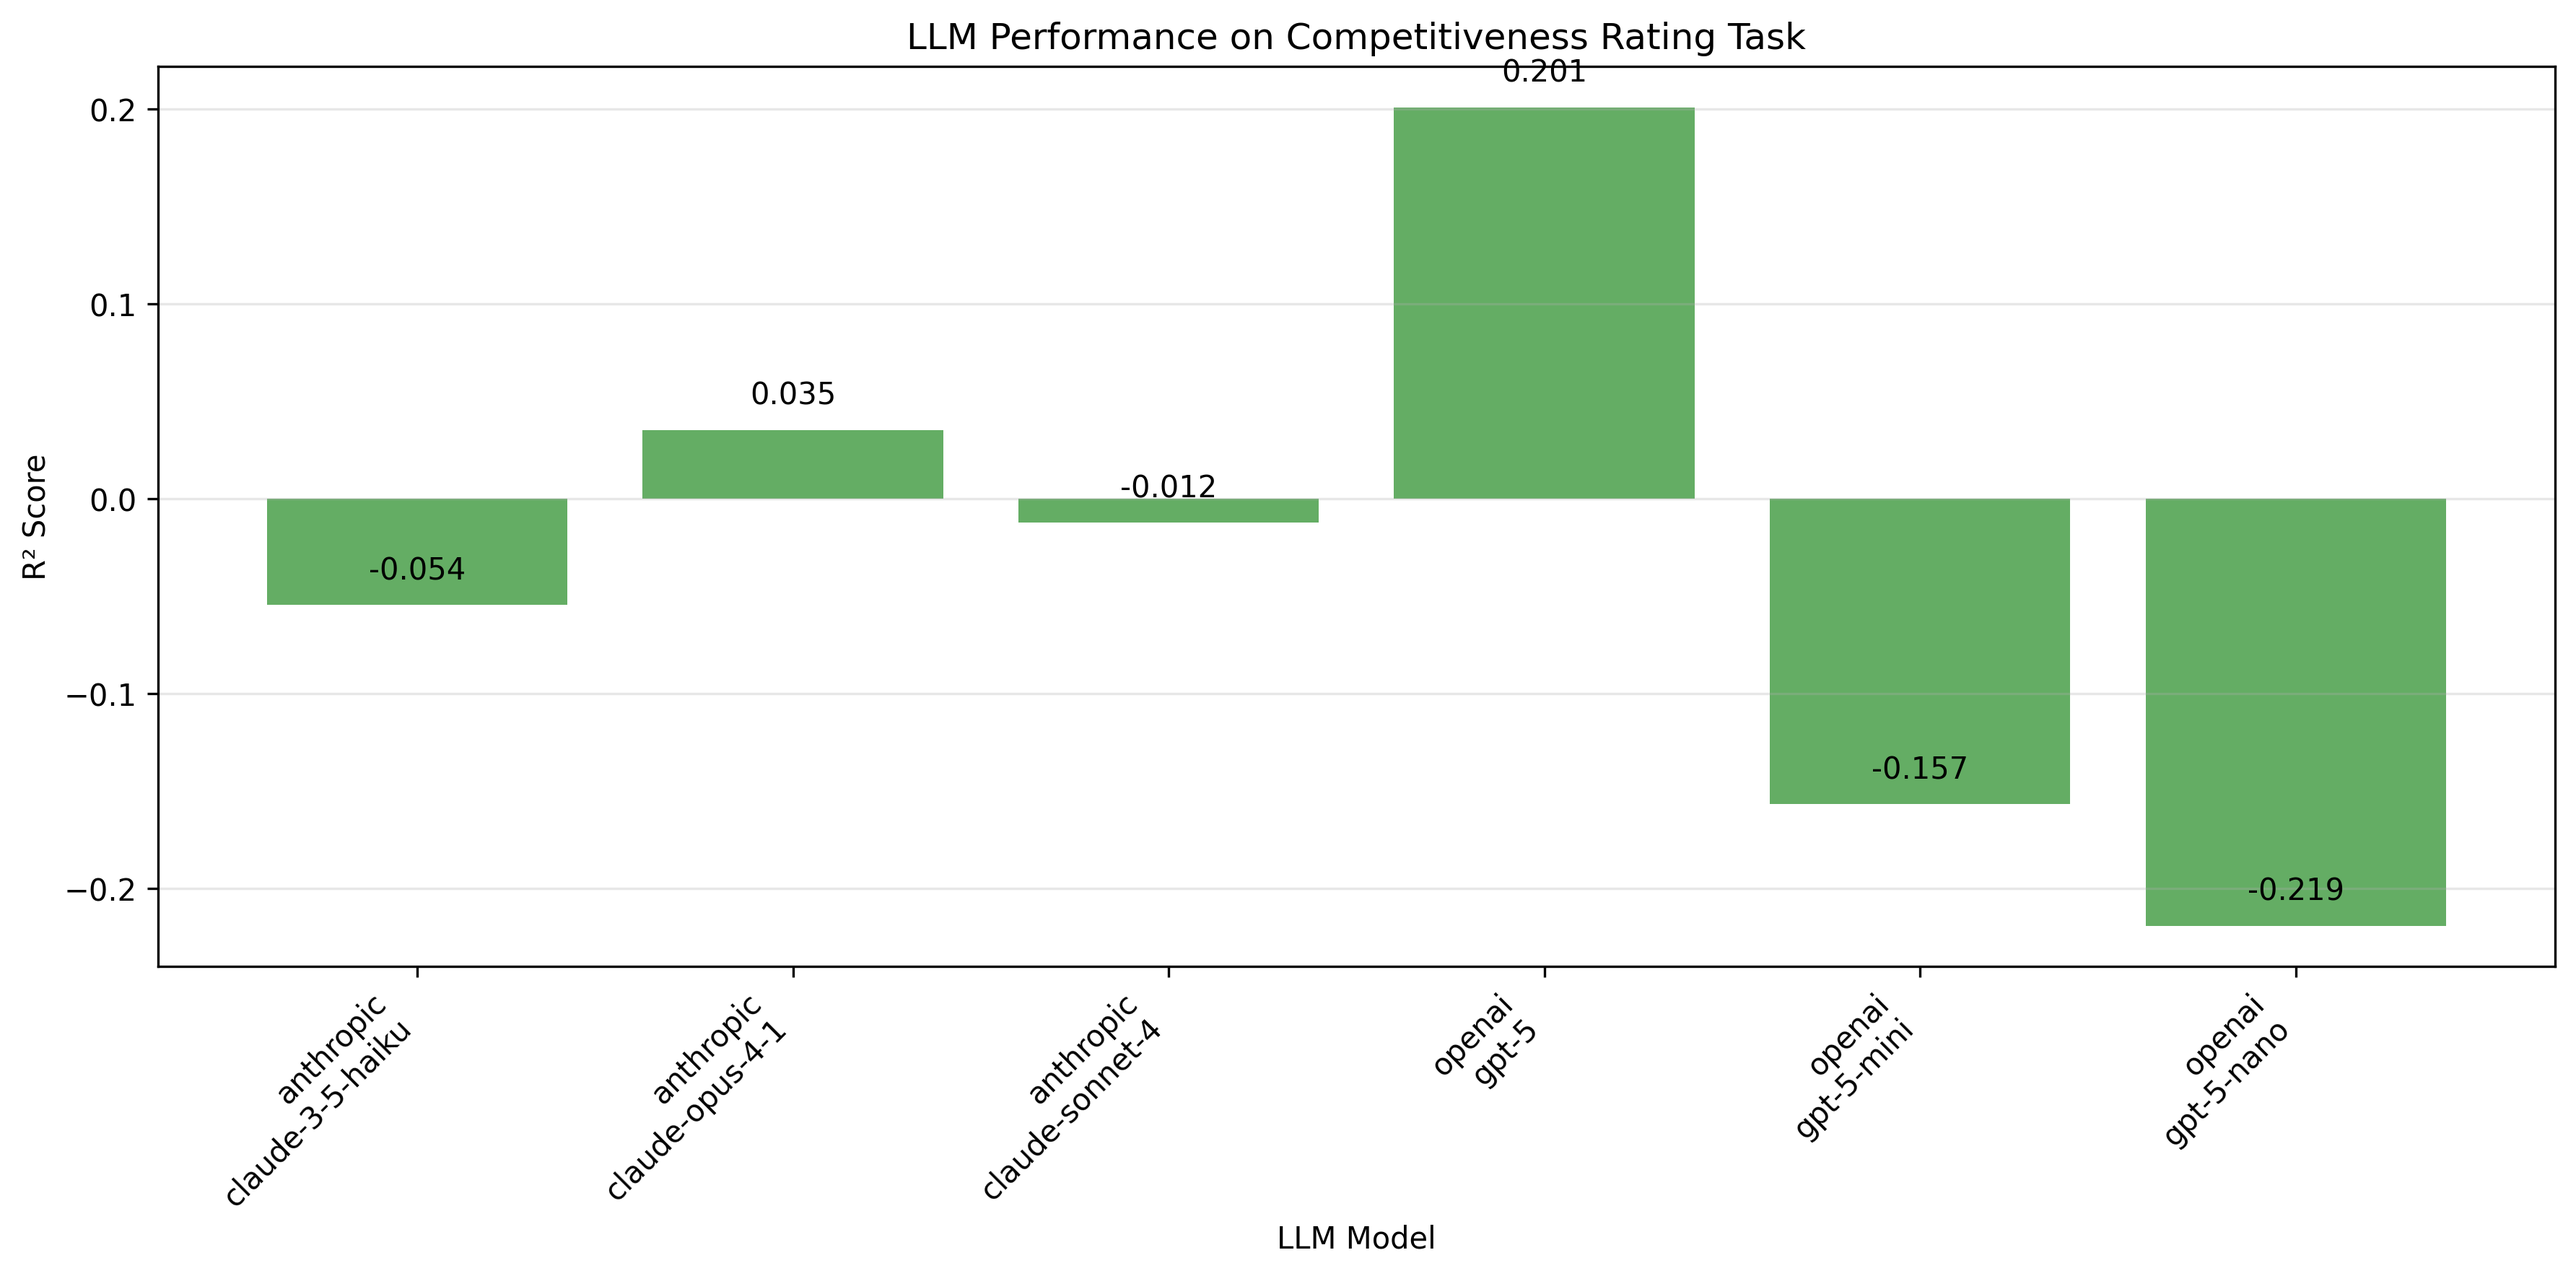
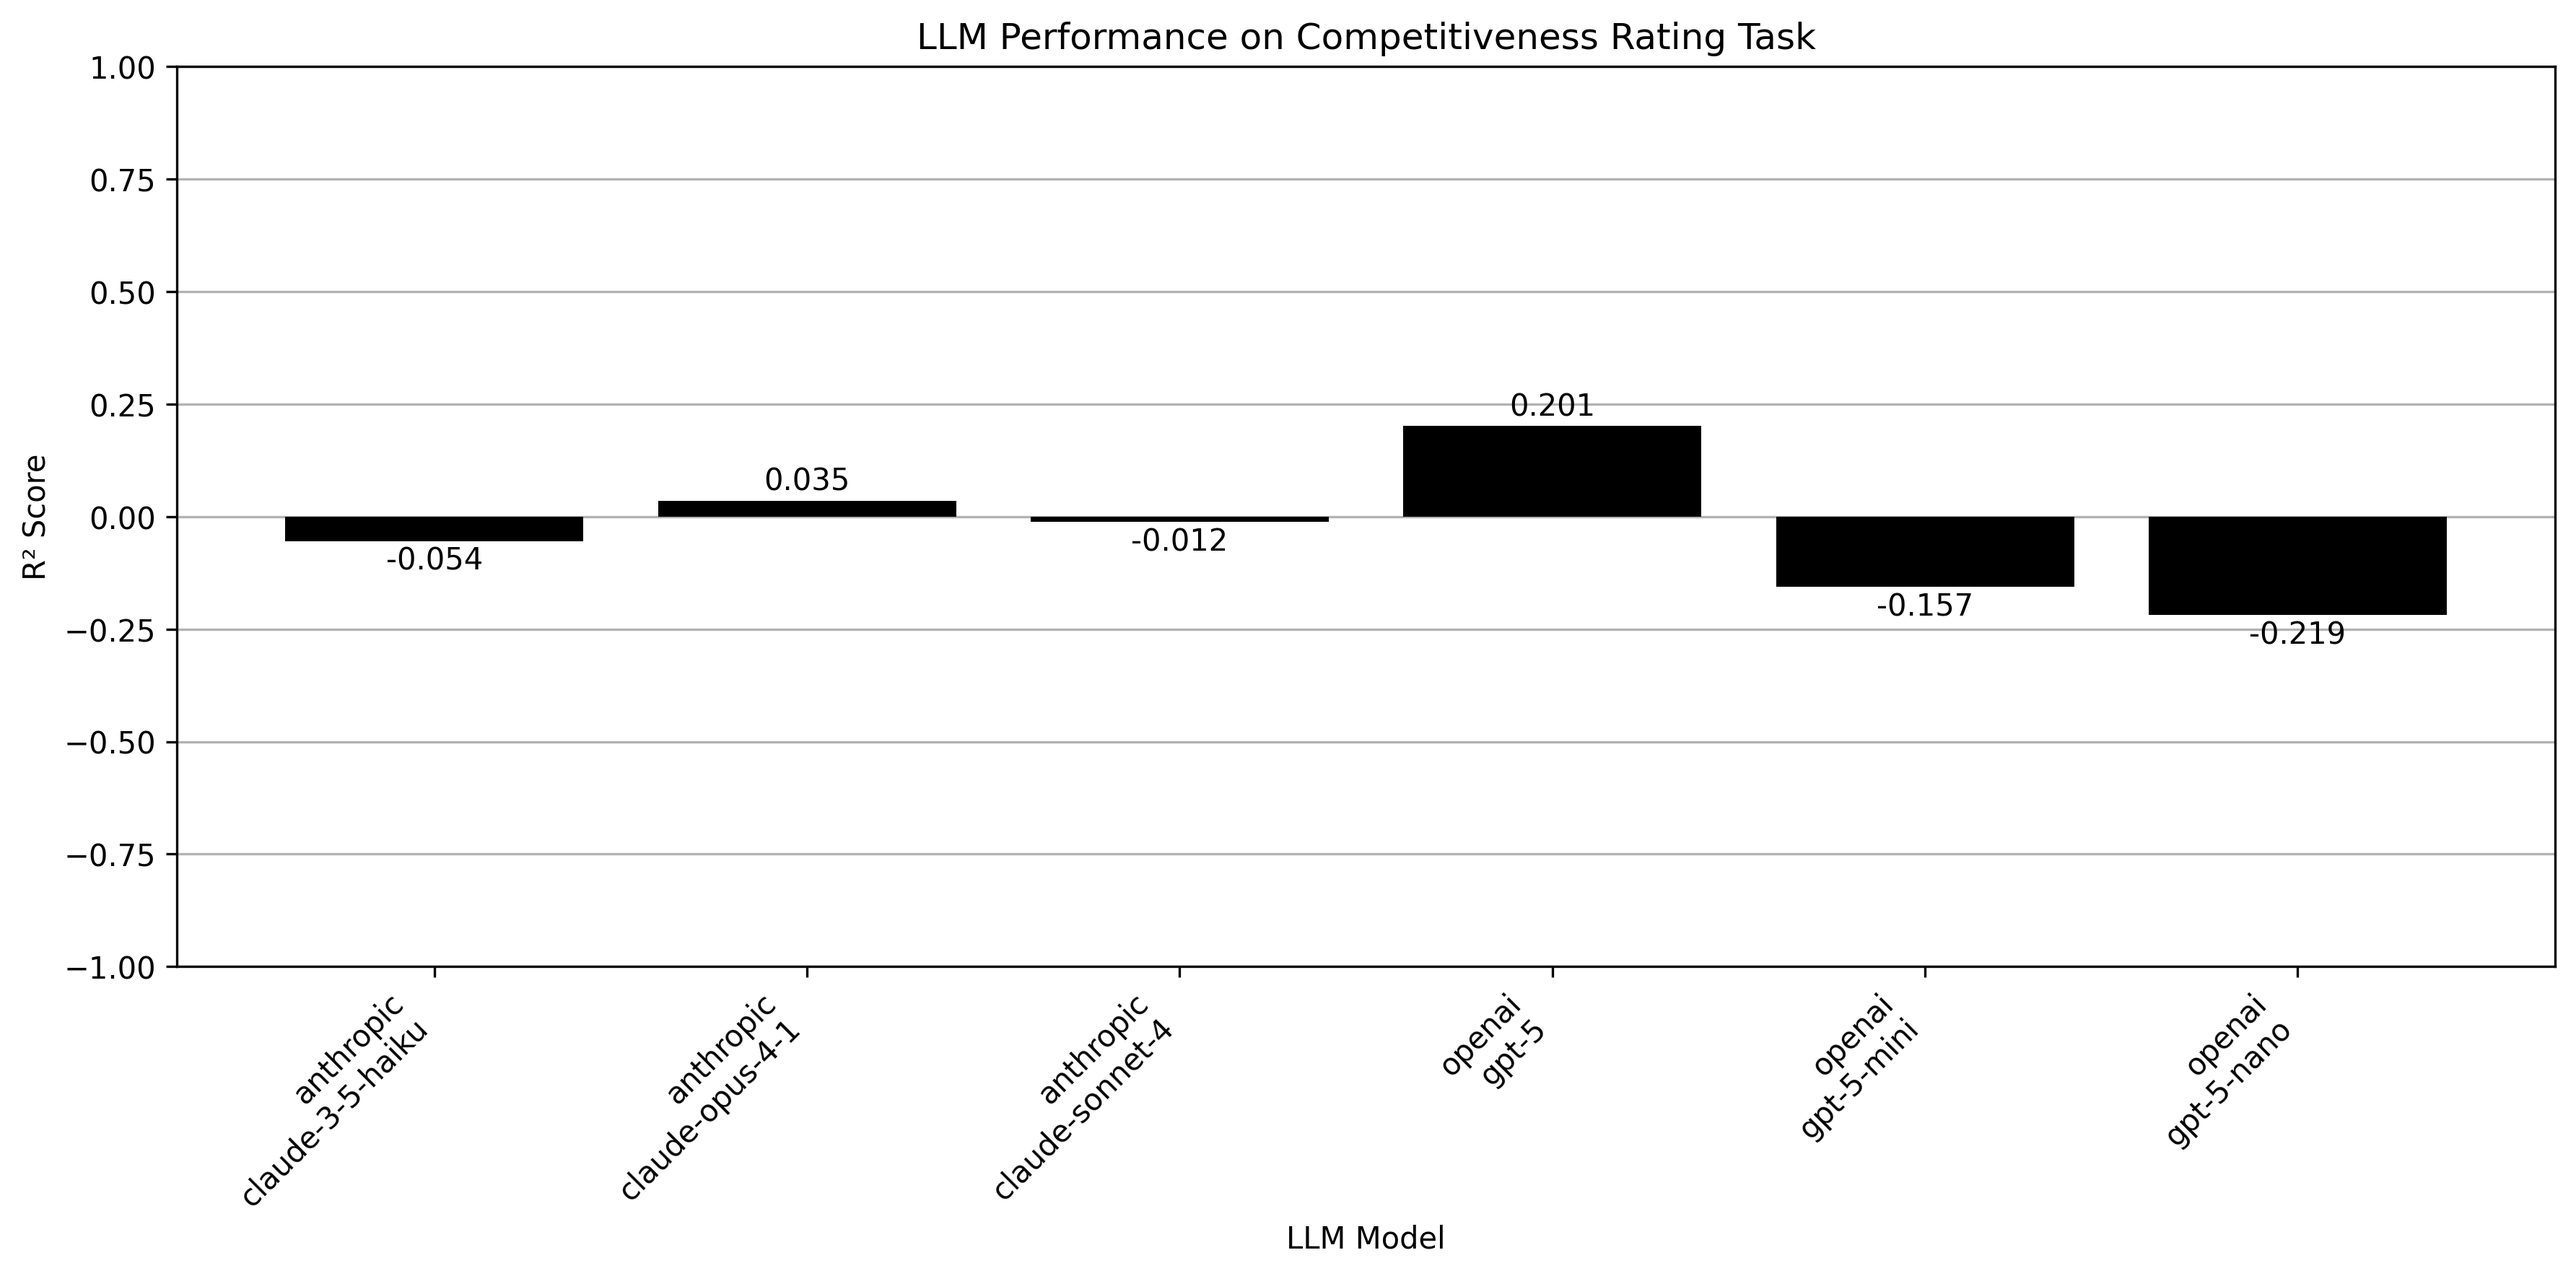
fix: Plots
🤖 Generated with [Claude Code](https://claude.ai/code)

diff --git a/cli.py b/cli.py
@@ -125,23 +125,27 @@ def create_r2_plot(results: dict[str, EvaluationMetrics]) -> None:
         else:
             display_names.append(model)
 
+    plt.style.use("grayscale")
     plt.figure(figsize=(12, 6))
-    bars = plt.bar(range(len(models)), r2_scores, color="forestgreen", alpha=0.7)
+    bars = plt.bar(range(len(models)), r2_scores)
 
     plt.title("LLM Performance on Competitiveness Rating Task")
     plt.xlabel("LLM Model")
     plt.ylabel("R² Score")
     plt.xticks(range(len(models)), display_names, rotation=45, ha="right")
     plt.grid(True, alpha=0.3, axis="y")
+    plt.ylim(-1.0, 1.0)
 
     # Add value labels on bars
     for bar, score in zip(bars, r2_scores):
+        y_pos = bar.get_height() + 0.01 if score >= 0 else bar.get_height() - 0.01
+        va = "bottom" if score >= 0 else "top"
         plt.text(
             bar.get_x() + bar.get_width() / 2,
-            bar.get_height() + 0.01,
+            y_pos,
             f"{score:.3f}",
             ha="center",
-            va="bottom",
+            va=va,
         )
 
     plt.tight_layout()
@@ -164,14 +168,16 @@ def create_spearman_plot(results: dict[str, EvaluationMetrics]) -> None:
         else:
             display_names.append(model)
 
+    plt.style.use("grayscale")
     plt.figure(figsize=(12, 6))
-    bars = plt.bar(range(len(models)), spearman_corrs, color="steelblue", alpha=0.7)
+    bars = plt.bar(range(len(models)), spearman_corrs)
 
     plt.title("LLM Performance on Competitiveness Rating Task")
     plt.xlabel("LLM Model")
     plt.ylabel("Spearman Correlation")
     plt.xticks(range(len(models)), display_names, rotation=45, ha="right")
     plt.grid(True, alpha=0.3, axis="y")
+    plt.ylim(0, 1.0)
 
     # Add value labels on bars
     for bar, corr in zip(bars, spearman_corrs):
